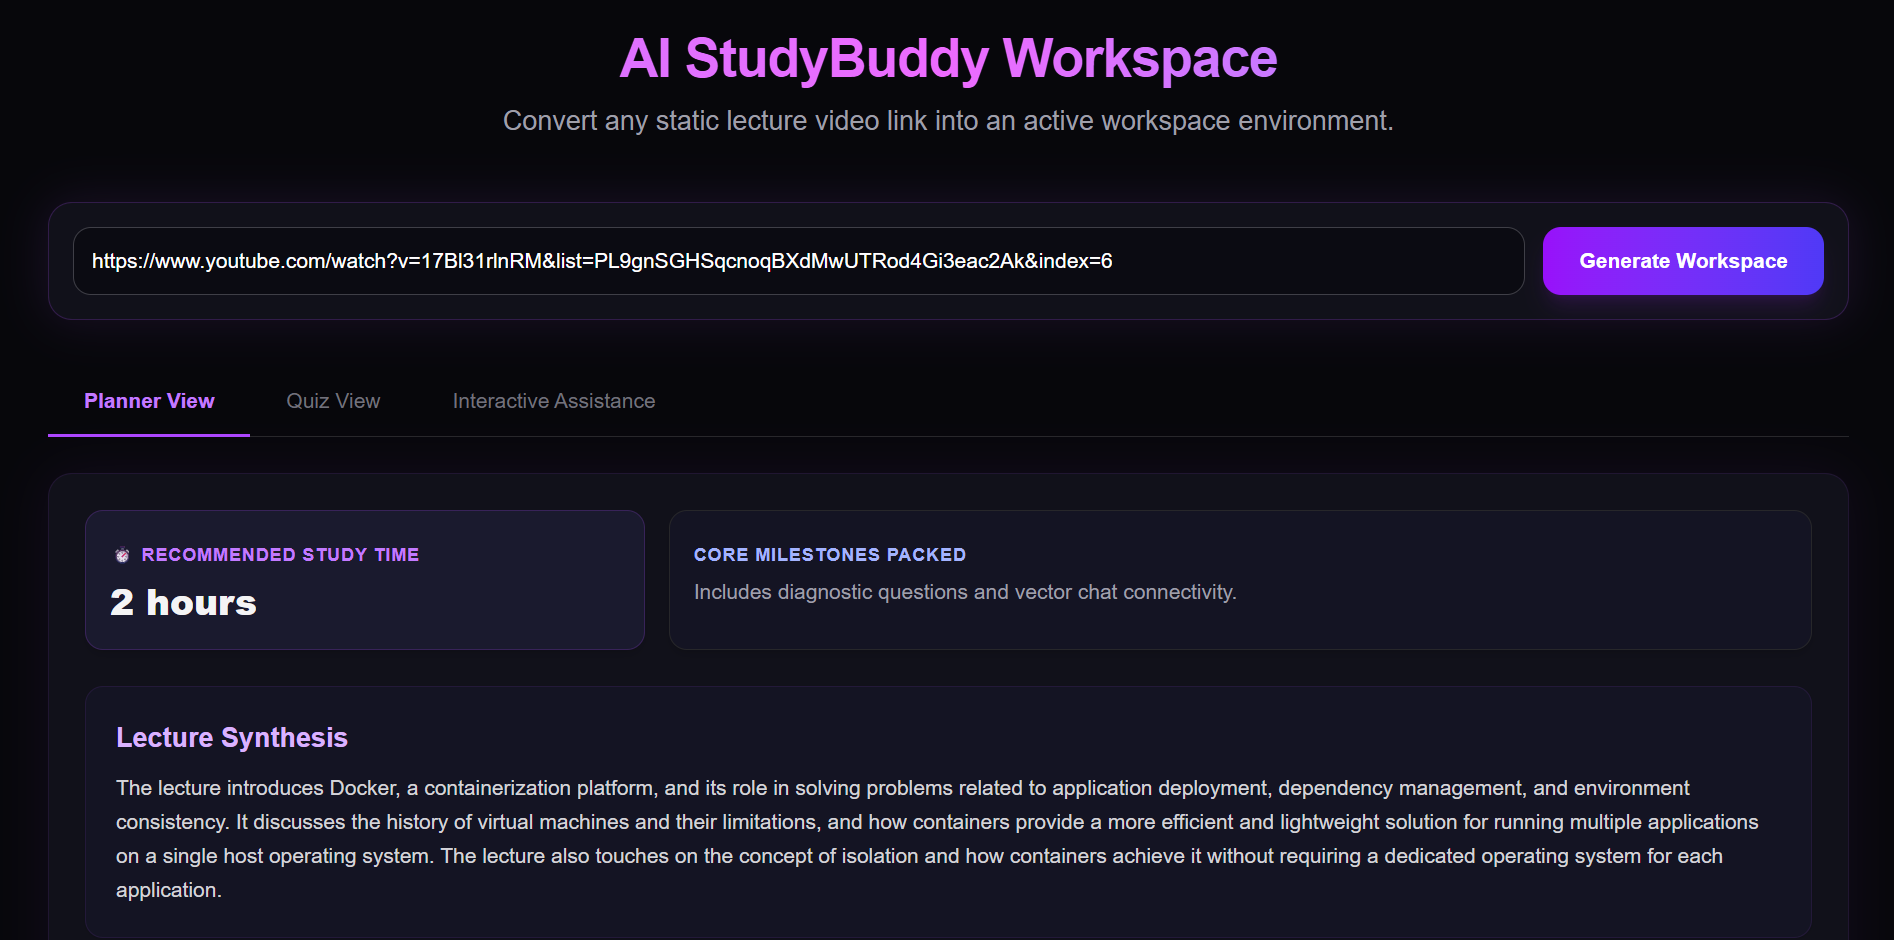
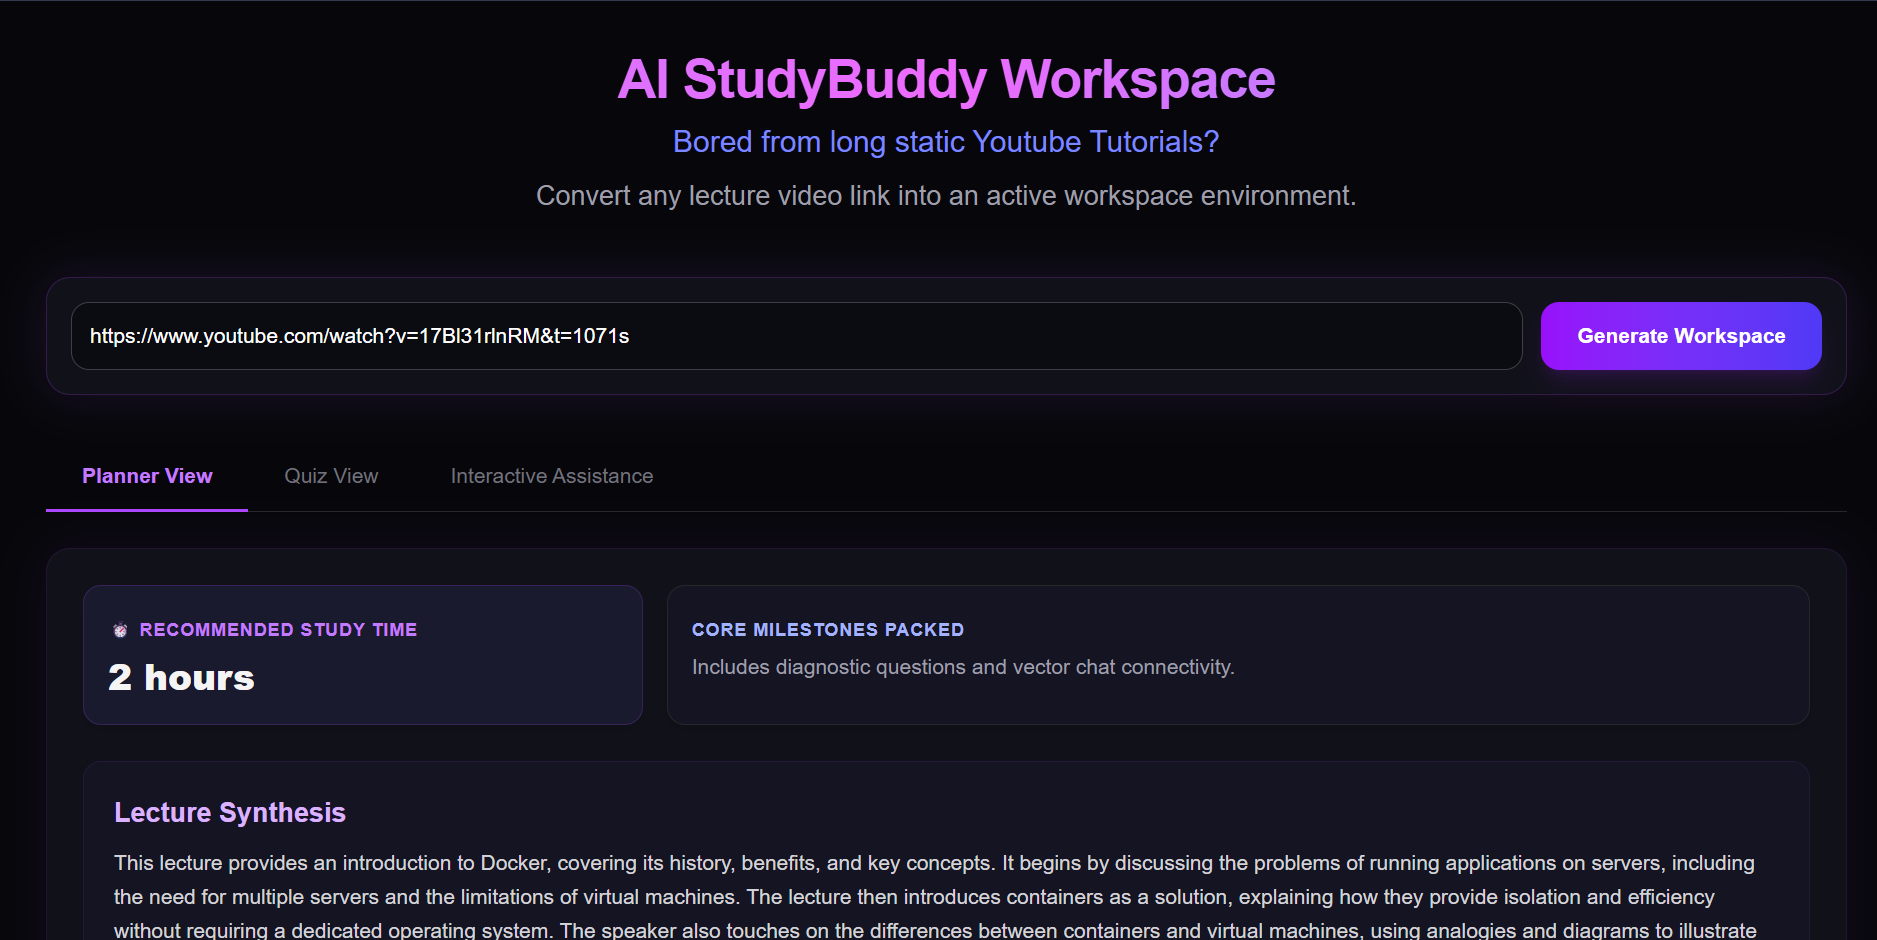
Added pictures

diff --git a/frontend/src/features/Dashboard.jsx b/frontend/src/features/Dashboard.jsx
@@ -39,9 +39,14 @@ export default function Dashboard() {
     <h1 className="text-4xl font-bold tracking-tight bg-linear-to-r from-purple-400 via-fuchsia-400 to-indigo-400 bg-clip-text text-transparent">
       AI StudyBuddy Workspace
     </h1>
-    <p className="text-lg text-zinc-400 mt-2">
-      Convert any static lecture video link into an active workspace environment.
+    <p className="text-xl text-indigo-400 mt-2">
+      Bored from long static Youtube Tutorials?
+      
     </p>
+    <p className="text-lg text-zinc-400 mt-2">
+      Convert any lecture video link into an active workspace environment.
+    </p>
+    
   </div>
 
   {/* Input Link Form Controller */}
